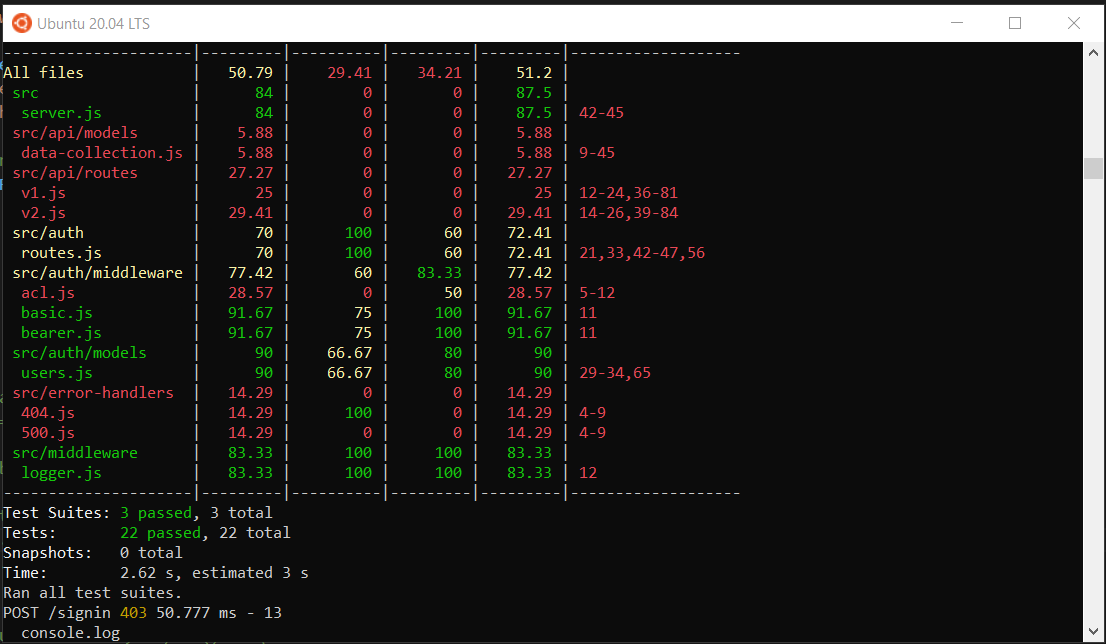
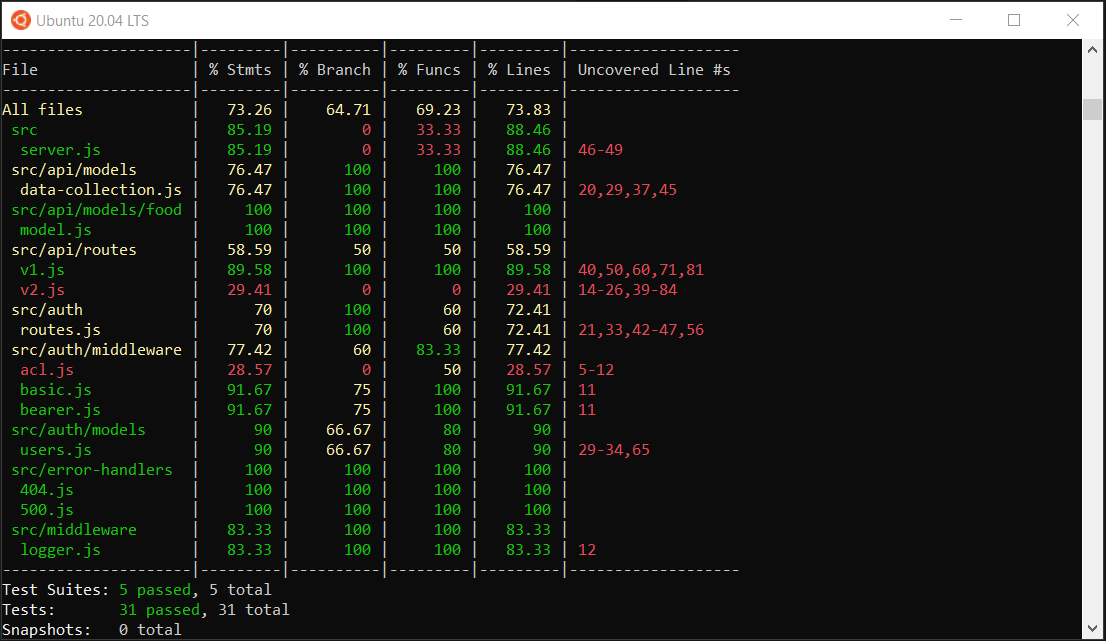
tests

Changed region(s): [[0.0, 0.0, 1.0, 0.9984], [0.3382, 0.8736, 0.3689, 0.9048], [0.1844, 0.9984, 0.2152, 1.0]]

diff --git a/__tests__/src/auth/router.test.js b/__tests__/src/auth/router.test.js
@@ -2,9 +2,9 @@
 
 process.env.SECRET = 'toes';
 
-const server = require('../src/server.js').server;
+const server = require('../../../src/server.js').server;
 const supergoose = require('@code-fellows/supergoose');
-const bearer = require('../src/auth/middleware/bearer.js');
+const bearer = require('../../../src/auth/middleware/bearer.js');
 
 const mockRequest = supergoose(server);
 
@@ -12,12 +12,6 @@ let users = {
 	admin: { username: 'admin', password: 'password', role: 'admin' },
 	editor: { username: 'editor', password: 'password', role: 'editor' },
 	user: { username: 'user', password: 'password', role: 'user' },
-};
-
-let food = {
-	name: 'pizza',
-	calories: '2',
-	type: 'VEGETABLE',
 };
 
 describe('Auth Router', () => {
@@ -98,75 +92,3 @@ describe('Auth Router', () => {
 		});
 	});
 });
-
-// describe('APi ', () => {
-// 	describe('V1', () => {
-// 		it('should return all the objects', async () => {
-// 			const response = await mockRequest.get(`api/vi/food`).send(food);
-// 			const userObject = response.body;
-
-// 			console.log(userObject);
-
-// 			expect(response.status).toBe(200);
-// 			expect(userObject.type).not.toBeDefined();
-// 			expect(userObject.name).not.toBeDefined();
-// 		});
-
-// 		it('basic fails with unknown user', async () => {
-// 			const response = await mockRequest.get('/get').auth('nobody', 'xyz');
-// 			const userObject = response.body;
-
-// 			expect(response.status).toBe(403);
-// 			expect(userObject.user).not.toBeDefined();
-// 			expect(userObject.token).not.toBeDefined();
-// 		});
-
-// 		it('basic fails with unknown user', async () => {
-// 			const response = await mockRequest.get('/get').auth('nobody', 'xyz');
-// 			const userObject = response.body;
-
-// 			expect(response.status).toBe(403);
-// 			expect(userObject.user).not.toBeDefined();
-// 			expect(userObject.token).not.toBeDefined();
-// 		});
-
-// 		it('basic fails with unknown user', async () => {
-// 			const response = await mockRequest.get('/get').auth('nobody', 'xyz');
-// 			const userObject = response.body;
-
-// 			expect(response.status).toBe(403);
-// 			expect(userObject.user).not.toBeDefined();
-// 			expect(userObject.token).not.toBeDefined();
-// 		});
-// 	});
-
-// 	describe('V2', () => {
-// 		it('basic fails with known user and wrong password ', async () => {
-// 			const response = await mockRequest.post('/signin').auth('admin', 'xyz');
-// 			const userObject = response.body;
-
-// 			expect(response.status).toBe(403);
-// 			expect(userObject.user).not.toBeDefined();
-// 			expect(userObject.token).not.toBeDefined();
-// 		});
-
-// 		it('basic fails with unknown user', async () => {
-// 			const response = await mockRequest.post('/signin').auth('nobody', 'xyz');
-// 			const userObject = response.body;
-
-// 			expect(response.status).toBe(403);
-// 			expect(userObject.user).not.toBeDefined();
-// 			expect(userObject.token).not.toBeDefined();
-// 		});
-
-// 		it('bearer fails with an invalid token', async () => {
-// 			// First, use basic to login to get a token
-// 			const bearerResponse = await mockRequest
-// 				.get('/users')
-// 				.set('Authorization', `Bearer foobar`);
-
-// 			// Not checking the value of the response, only that we "got in"
-// 			expect(bearerResponse.status).toBe(403);
-// 		});
-// 	});
-// });

diff --git a/__tests__/src/api/v1routes.test.js b/__tests__/src/api/v1routes.test.js
@@ -1,0 +1,51 @@
+'use strict';
+
+require('dotenv').config();
+const supergoose = require('@code-fellows/supergoose');
+const { server } = require('../../../src/server.js');
+const request = supergoose(server);
+let id;
+
+describe('V1 Api', () => {
+	it('GET /food ', async () => {
+		const response = await request.get('/api/v1/food');
+		expect(response.status).toEqual(200);
+		expect(response.body).toEqual([]);
+	});
+	it('POST /food', async () => {
+		const response = await request.post('/api/v1/food').send({
+			name: 'pizza',
+			calories: '25',
+			type: 'VEGETABLE',
+		});
+		expect(response.status).toEqual(201);
+		expect(response.body.name).toEqual('pizza');
+		id = response.body._id;
+	});
+	it('GET /food/:id', async () => {
+		const response = await request.get(`/api/v1/food/${id}`);
+		expect(response.status).toEqual(200);
+		expect(response.body.name).toEqual('pizza');
+	});
+	it('GET /food', async () => {
+		const response = await request.get('/api/v1/food');
+		expect(response.status).toEqual(200);
+	});
+	it('PUT /food', async () => {
+		const response = await request.put(`/api/v1/food/${id}`).send({
+			name: 'pizza',
+			calories: '25',
+			type: 'PROTIEN',
+		});
+		expect(response.status).toEqual(200);
+		expect(response.body.type).toEqual('PROTIEN');
+	});
+	it('DELETE /food', async () => {
+		const response = await request.delete(`/api/v1/food/${id}`);
+		expect(response.status).toEqual(200);
+	});
+	it('invalid model', async () => {
+		const response = await request.get('/api/v1/anyModels');
+		expect(response.status).toEqual(500);
+	});
+});

diff --git a/__tests__/server.test.js b/__tests__/server.test.js
@@ -1,0 +1,17 @@
+'use strict';
+
+require('dotenv').config();
+const supergoose = require('@code-fellows/supergoose');
+const { server } = require('./../src/server');
+const request = supergoose(server);
+
+describe('Server Test', () => {
+	it('handle server errors', async () => {
+		const response = await request.get('/bad');
+		expect(response.status).toEqual(500);
+	});
+	it('handle invalid routes', async () => {
+		const response = await request.get('/foo');
+		expect(response.status).toEqual(404);
+	});
+});

diff --git a/src/auth/middleware/acl.js b/src/auth/middleware/acl.js
@@ -6,10 +6,10 @@ module.exports = (capability) => {
 			if (req.user.capabilities.includes(capability)) {
 				next();
 			} else {
-				next('Access Denied');
+				res.status(401).send('Access Denied');
 			}
 		} catch (e) {
-			next('Invalid Login');
+			res.status(403).send('Invalid Login');
 		}
 	};
 };

diff --git a/src/server.js b/src/server.js
@@ -32,6 +32,10 @@ app.use(authRoutes);
 app.use('/api/v1', v1Routes);
 app.use('/api/v2', v2Routes);
 
+app.use('/bad', (req, res) => {
+	throw new Error();
+});
+
 // Catchalls
 app.use('*', notFound);
 app.use(errorHandler);
